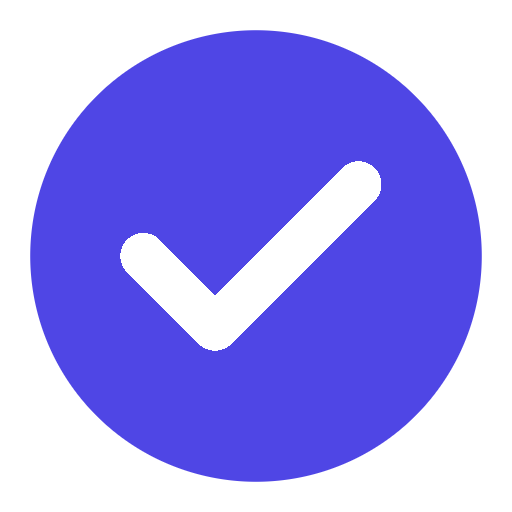
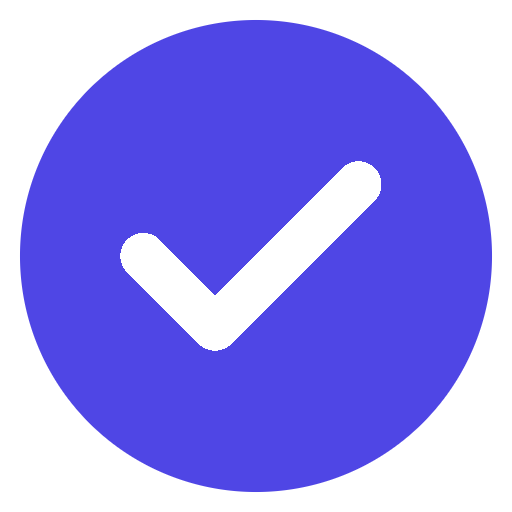
修复云端空数据覆盖本地数据，加备份恢复

Changed region(s): [[0.0312, 0.0312, 0.9688, 0.9688]]

diff --git a/index.html b/index.html
@@ -4,7 +4,7 @@
 <meta charset="UTF-8">
 <meta name="viewport" content="width=device-width, initial-scale=1.0">
 <title>每日打卡</title>
-<link rel="manifest" href="./manifest.json?v=3">
+<link rel="manifest" href="./manifest.json?v=4">
 <meta name="theme-color" content="#4f46e5">
 <style>
 /* ========================================
@@ -349,15 +349,36 @@
   .plan-add-task button:hover { filter:brightness(1.1); }
 
 /* ========================================
-   Responsive
+   Responsive — Mobile
    ======================================== */
   @media (max-width:768px) {
-    header { padding:10px 14px; gap:8px; }
-    header h1 { font-size:15px; }
+    header { padding:8px 10px; gap:6px; flex-wrap:wrap; }
+    header h1 { font-size:14px; }
+    header h1 svg { width:18px; height:18px; }
+    .view-toggle button { padding:4px 10px; font-size:11px; }
+    .plan-btn { padding:4px 10px; font-size:11px; }
+    .bell-btn { width:28px; height:28px; font-size:13px; }
     main { flex-direction:column; }
-    .cal-panel { width:100%; min-width:100%; border-right:none; border-bottom:1px solid var(--line); padding:14px; }
-    .task-panel { padding:14px; }
-    .modal { width:95vw; }
+    .cal-panel { width:100%; min-width:100%; border-right:none; border-bottom:2px solid var(--pri-light); padding:8px 4px; gap:6px; }
+    .nav-row { font-size:14px; gap:12px; }
+    .day-cell { font-size:12px; border-radius:6px; }
+    .day-cell .dot { width:3px; height:3px; bottom:2px; }
+    .weekdays { font-size:10px; padding:0 2px; }
+    .task-panel { padding:14px 10px; }
+    .task-header .date-title { font-size:17px; }
+    .task-item { padding:10px 12px; gap:8px; }
+    .task-name { font-size:14px; }
+    .add-task-form { flex-wrap:wrap; padding:10px 12px; }
+    .add-task-form input[type="text"] { font-size:14px; min-width:100%; }
+    .add-task-form input[type="time"] { width:auto; flex:1; }
+    .week-day-tasks .wt { font-size:10px; max-width:100px; padding:1px 6px; }
+    .week-day-label { width:42px; min-width:42px; font-size:10px; }
+    .week-day-label .wd { font-size:13px; }
+    .modal { width:98vw; }
+    .modal-body { padding:12px; }
+    .plan-row { flex-direction:column; gap:6px; padding:8px; }
+    .plan-row-label { width:auto; text-align:left; padding-top:0; }
+    .plan-add-task input[type="text"] { min-width:0; }
   }
 </style>
   <script src="https://cdn.jsdelivr.net/npm/@supabase/supabase-js@2/dist/umd/supabase.min.js"></script>
@@ -430,15 +451,28 @@ async function initDB() {
     const { data } = await sb.from('checkin_data').select('data, updated_at').eq('id', 1).single();
     if (data?.data) {
       const cloud = data.data;
-      // 合并策略：云端优先。如果本地有更新的数据（离线时编辑的），合并之
       const localTime = localStorage.getItem('checkin_last_sync');
       const cloudTime = data.updated_at;
-      if (localTime && cloudTime && new Date(localTime) > new Date(cloudTime)) {
+
+      // 判断云端是否有实际内容
+      const cloudEmpty = !hasContent(cloud);
+      const localHas = local && hasContent(local);
+
+      if (cloudEmpty && localHas) {
+        // 云端是空的，本地有数据 → 上传本地到云端
+        _db = local;
+        await saveToCloud(local);
+      } else if (localTime && cloudTime && new Date(localTime) > new Date(cloudTime)) {
         // 本地更新 → 合并本地数据
         _db = { ...cloud, ...local };
         await saveToCloud(_db);
       } else {
         _db = cloud;
+      }
+      // 备份旧数据防丢失
+      const oldLocal = localStorage.getItem(STORE);
+      if (oldLocal && hasContent(JSON.parse(oldLocal)) && !hasContent(_db)) {
+        _db = JSON.parse(oldLocal);
       }
       localStorage.setItem(STORE, JSON.stringify(_db));
       localStorage.setItem('checkin_last_sync', new Date().toISOString());
@@ -454,6 +488,13 @@ async function initDB() {
   updateSyncStatus(_db === local ? 'local' : 'empty');
   // 后台尝试上传本地数据
   if (local) saveToCloud(local).catch(() => {});
+}
+
+function hasContent(db) {
+  if (!db) return false;
+  const tasks = db.tasks || {};
+  const plan = db.plan || {};
+  return Object.keys(tasks).length > 0 || Object.keys(plan).length > 0;
 }
 
 async function saveToCloud(db) {
@@ -1100,6 +1141,12 @@ function render() {
     renderMonthView();
   }
   renderTaskPanel();
+  // 手机端自动滚动到任务区
+  if (window.innerWidth <= 768) {
+    setTimeout(() => {
+      document.getElementById('taskPanel').scrollIntoView({ behavior: 'smooth', block: 'start' });
+    }, 100);
+  }
 }
 
 // ============================================================

diff --git a/generate-icons.py b/generate-icons.py
@@ -26,7 +26,7 @@ def draw_icon(size):
     """Draw indigo circle + white checkmark"""
     cx = size / 2.0
     cy = size / 2.0
-    radius = size * 0.44
+    radius = size * 0.46  # bigger circle
 
     pixels = []
     for y in range(size):
